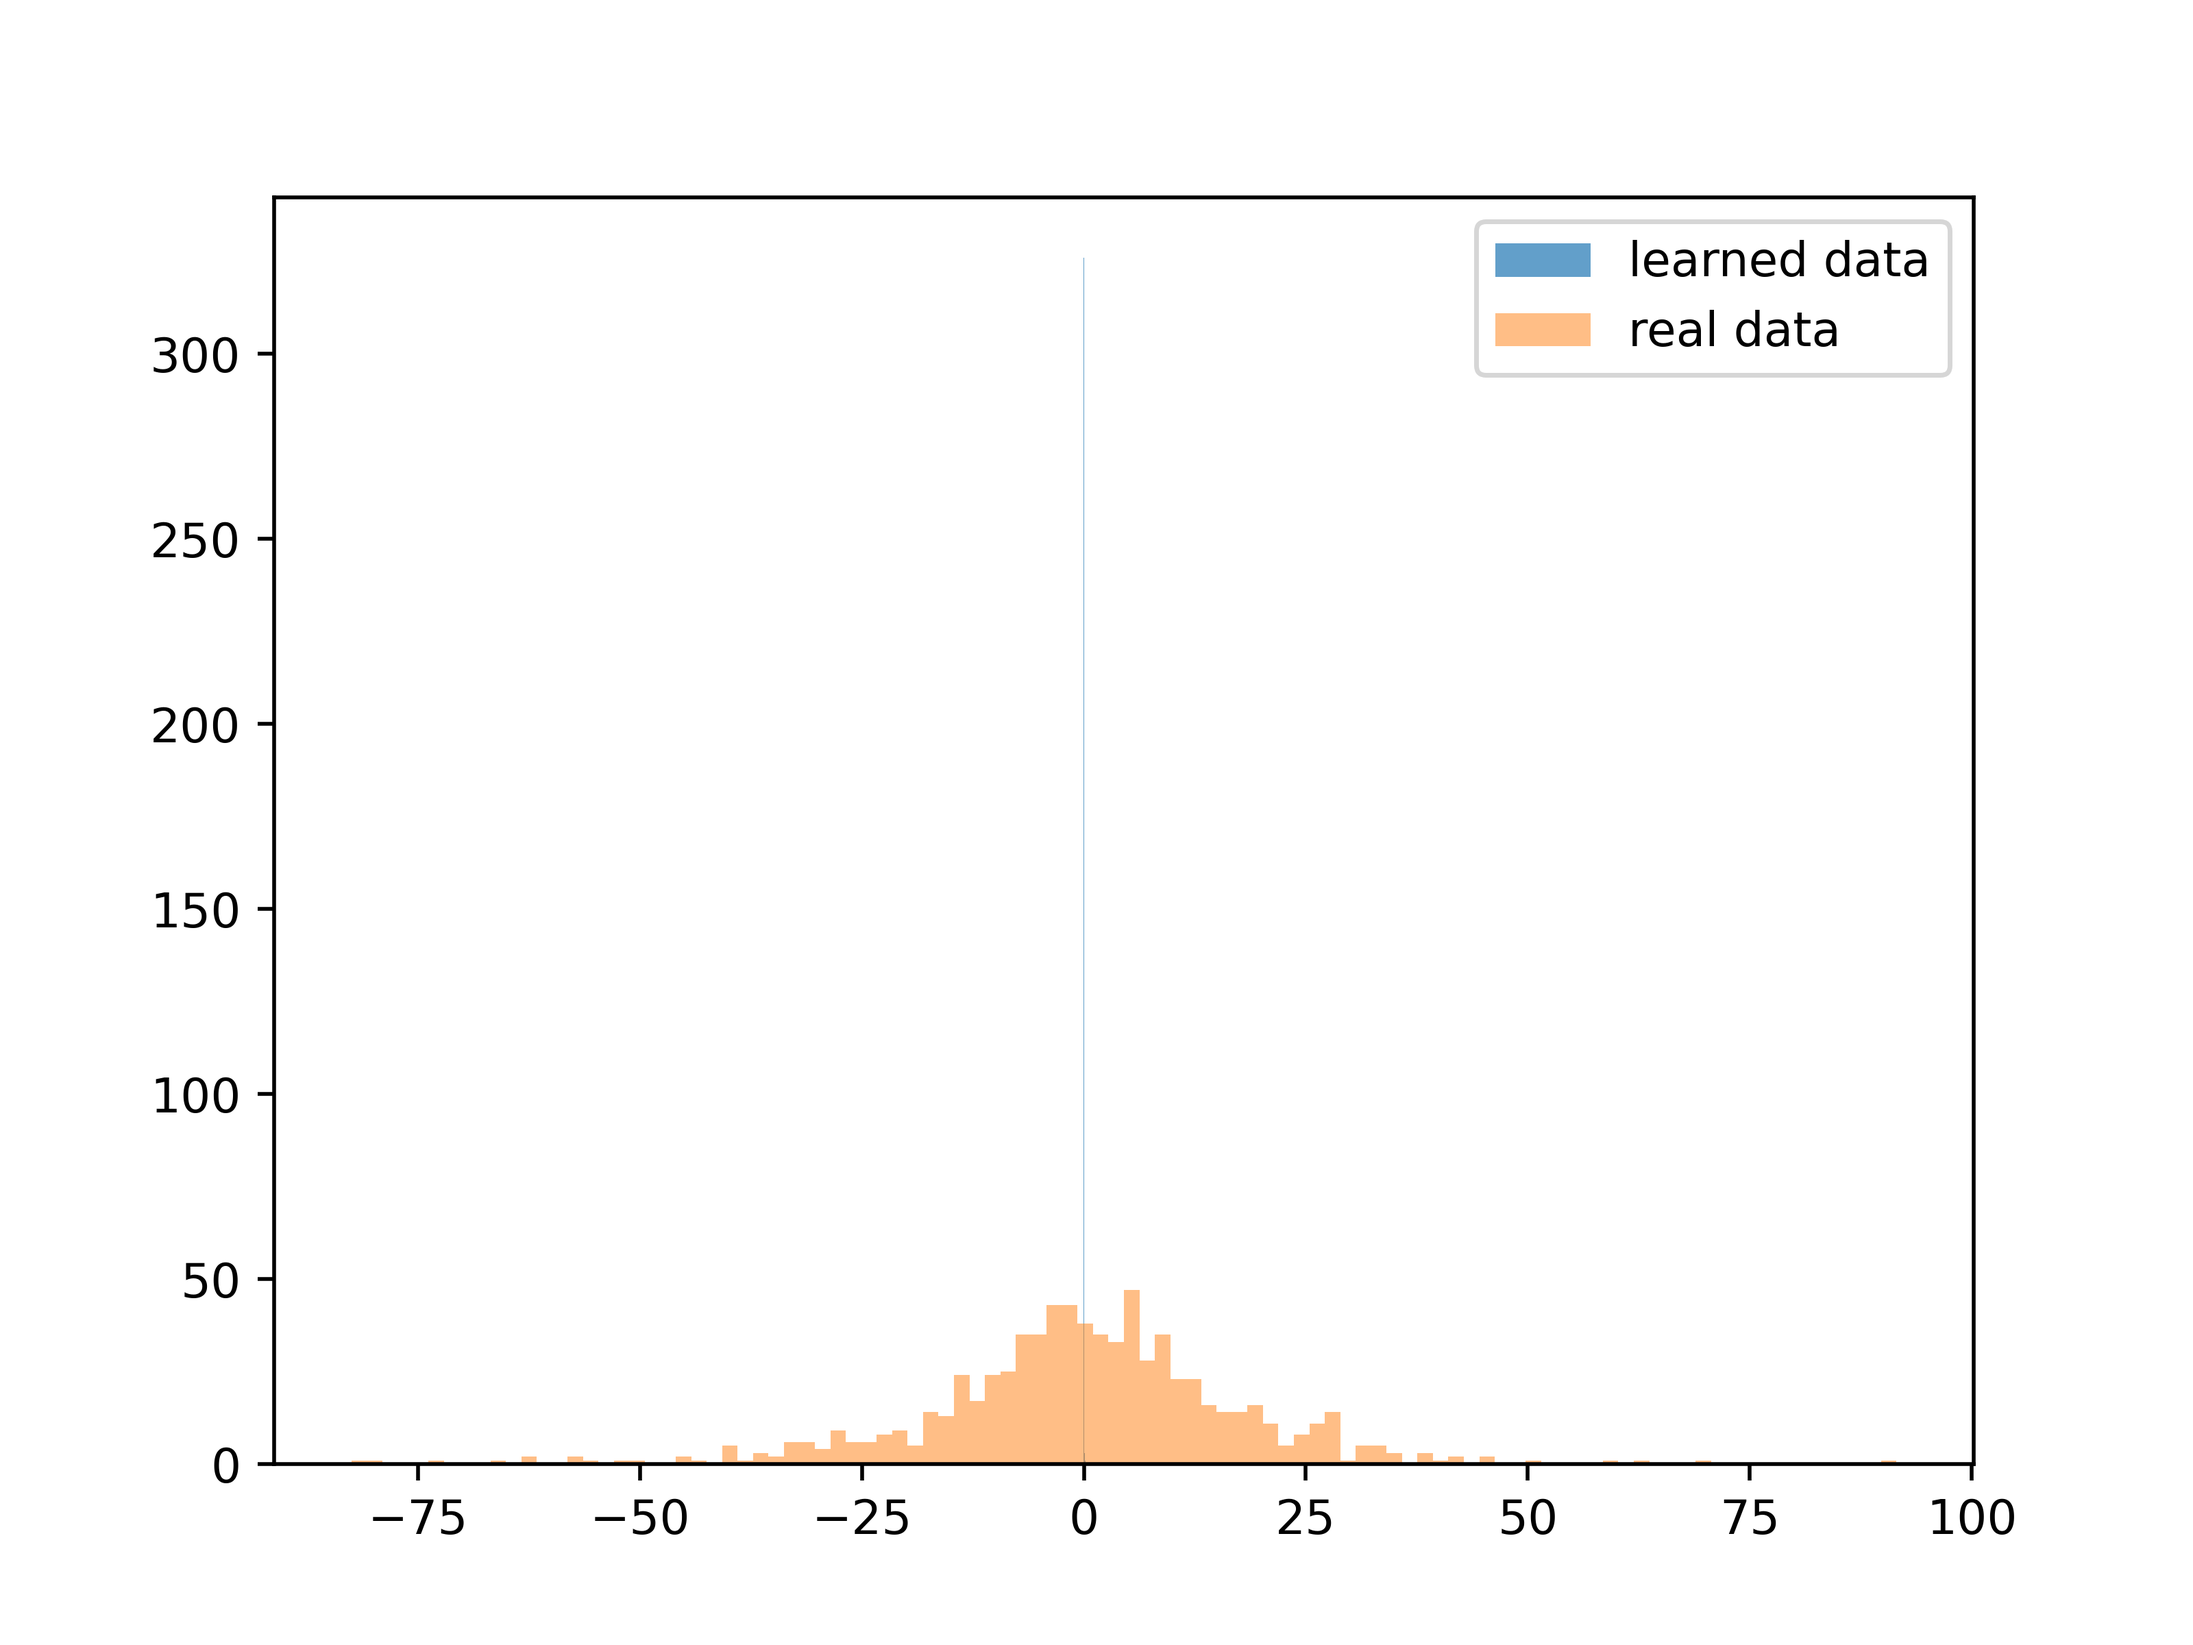
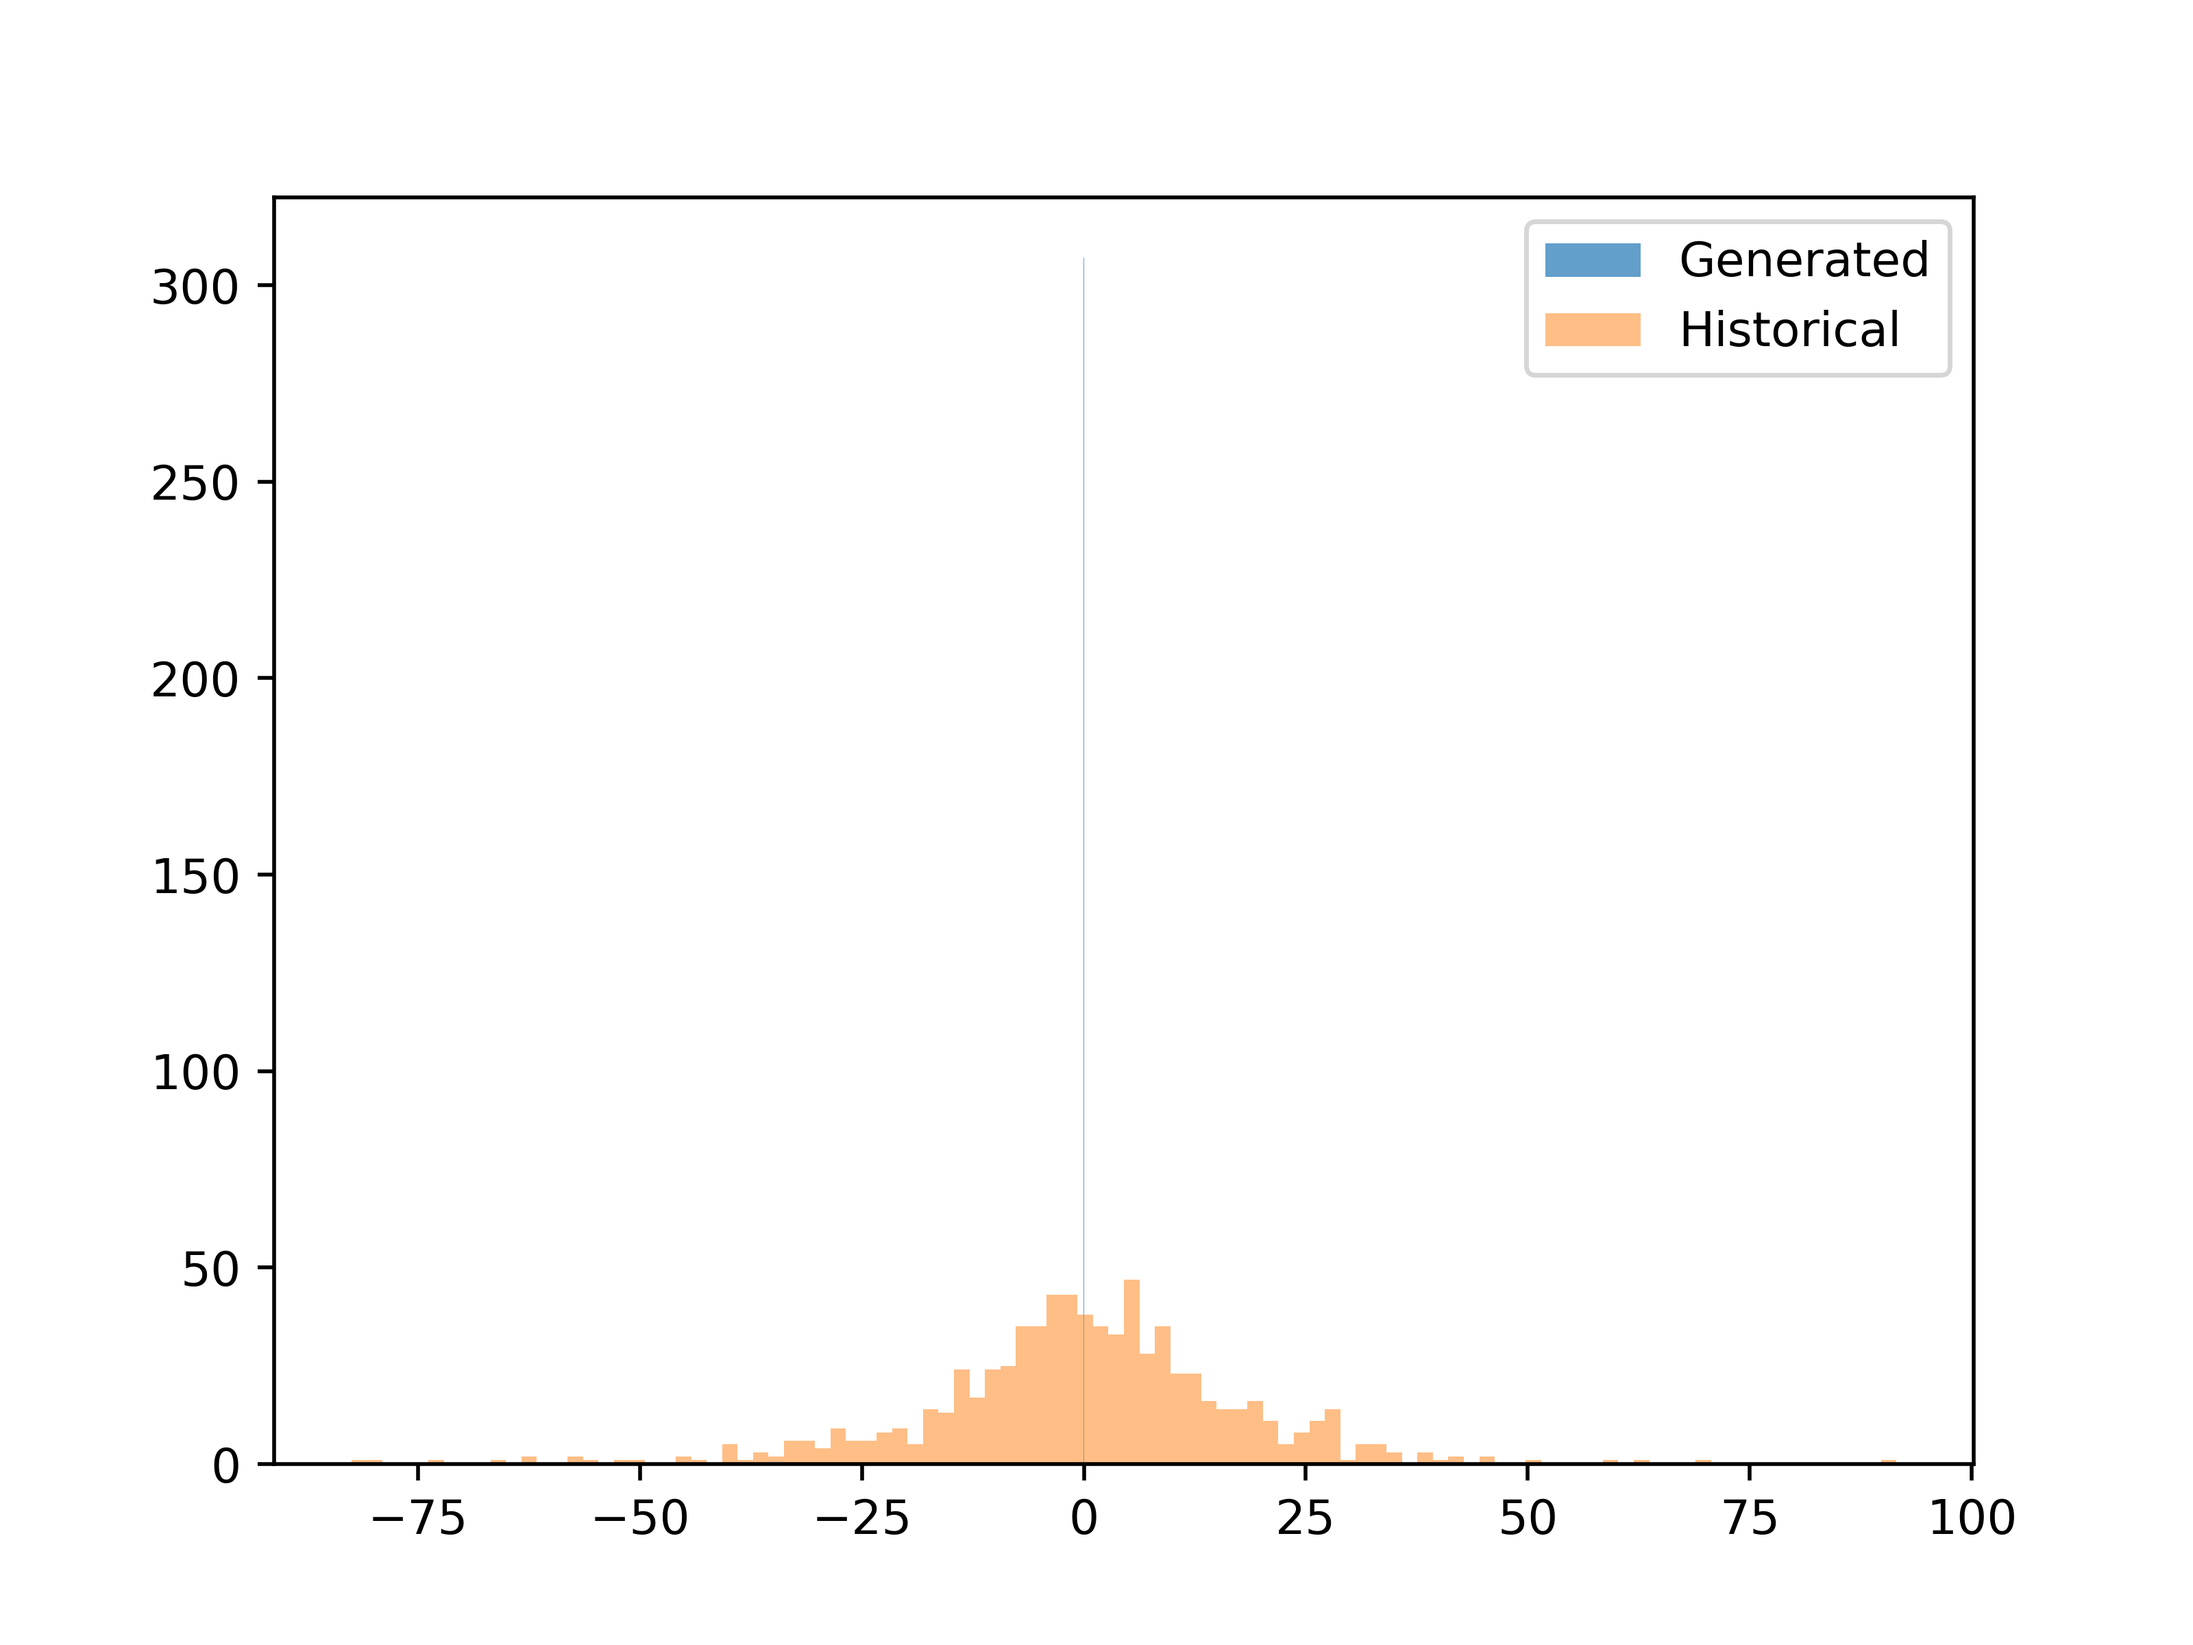
backup

diff --git a/train_fSDE.py b/train_fSDE.py
@@ -15,7 +15,7 @@ import torch.nn.functional as F
 
 from neural_net import LatentODEfunc, RecognitionRNN, Decoder
 from neural_net import LatentSDEfunc, state_size, batch_size
-from utils import log_normal_pdf, normal_kl
+from utils import log_normal_pdf, normal_kl, RunningAverageMeter
 from plots import plot_path, plot_hist
 
 parser = argparse.ArgumentParser()
@@ -38,23 +38,6 @@ args = parser.parse_args()
 from fsde_solver import fsdeint
 
 
-class RunningAverageMeter(object):
-    """Computes and stores the average and current value"""
-
-    def __init__(self, momentum=0.99):
-        self.momentum = momentum
-        self.reset()
-
-    def reset(self):
-        self.val = None
-        self.avg = 0
-
-    def update(self, val):
-        if self.val is None:
-            self.avg = val
-        else:
-            self.avg = self.avg * self.momentum + val * (1 - self.momentum)
-        self.val = val
 
 
 
@@ -65,8 +48,6 @@ if __name__ == '__main__':
     rnn_nhidden = 25
     obs_dim = 1
 
-    #start = 0.
-    #stop = 1.
     noise_std = 0.1
     
     device = torch.device('cuda:' + str(args.gpu)

diff --git a/train_SDE.py b/train_SDE.py
@@ -15,7 +15,7 @@ import torch.nn.functional as F
 
 from neural_net import LatentODEfunc, RecognitionRNN, Decoder
 from neural_net import LatentSDEfunc, state_size, batch_size
-from utils import log_normal_pdf, normal_kl
+from utils import log_normal_pdf, normal_kl, RunningAverageMeter
 from plots import plot_path, plot_hist
 
 
@@ -35,25 +35,6 @@ else:
     from torchdiffeq import odeint
     from torchsde import sdeint
 
-
-
-class RunningAverageMeter(object):
-    """Computes and stores the average and current value"""
-
-    def __init__(self, momentum=0.99):
-        self.momentum = momentum
-        self.reset()
-
-    def reset(self):
-        self.val = None
-        self.avg = 0
-
-    def update(self, val):
-        if self.val is None:
-            self.avg = val
-        else:
-            self.avg = self.avg * self.momentum + val * (1 - self.momentum)
-        self.val = val
 
 
 

diff --git a/train_ODE.py b/train_ODE.py
@@ -14,7 +14,7 @@ import torch.optim as optim
 import torch.nn.functional as F
 
 from neural_net import LatentODEfunc, RecognitionRNN, Decoder, state_size, batch_size
-from utils import log_normal_pdf, normal_kl
+from utils import log_normal_pdf, normal_kl, RunningAverageMeter
 from plots import plot_path, plot_hist
 
 
@@ -33,25 +33,6 @@ else:
     from torchdiffeq import odeint
 
 
-
-
-class RunningAverageMeter(object):
-    """Computes and stores the average and current value"""
-
-    def __init__(self, momentum=0.99):
-        self.momentum = momentum
-        self.reset()
-
-    def reset(self):
-        self.val = None
-        self.avg = 0
-
-    def update(self, val):
-        if self.val is None:
-            self.avg = val
-        else:
-            self.avg = self.avg * self.momentum + val * (1 - self.momentum)
-        self.val = val
 
 
 

diff --git a/plots.py b/plots.py
@@ -18,8 +18,8 @@ def plot_path(train_ts, xs_learn, test_ts, xs_pred, train_data, test_data, path)
 
 def plot_hist(xs_learn, train_data, path):
     plt.figure()
-    plt.hist(np.diff(xs_learn.reshape(-1)), alpha=0.7, bins=100, label='learned data')
-    plt.hist(np.diff(train_data.reshape(-1)), alpha=0.5, bins=100, label='real data')  
+    plt.hist(np.diff(xs_learn.reshape(-1)), alpha=0.7, bins=100, label='Generated')
+    plt.hist(np.diff(train_data.reshape(-1)), alpha=0.5, bins=100, label='Historical')  
     plt.legend()
     plt.savefig(path, dpi=500)
     print('Saved visualization figure at {}'.format(path))

diff --git a/utils.py b/utils.py
@@ -16,3 +16,23 @@ def normal_kl(mu1, lv1, mu2, lv2):
 
     kl = lstd2 - lstd1 + ((v1 + (mu1 - mu2) ** 2.) / (2. * v2)) - .5
     return kl
+
+
+class RunningAverageMeter(object):
+    """Computes and stores the average and current value"""
+
+    def __init__(self, momentum=0.99):
+        self.momentum = momentum
+        self.reset()
+
+    def reset(self):
+        self.val = None
+        self.avg = 0
+
+    def update(self, val):
+        if self.val is None:
+            self.avg = val
+        else:
+            self.avg = self.avg * self.momentum + val * (1 - self.momentum)
+        self.val = val
+
